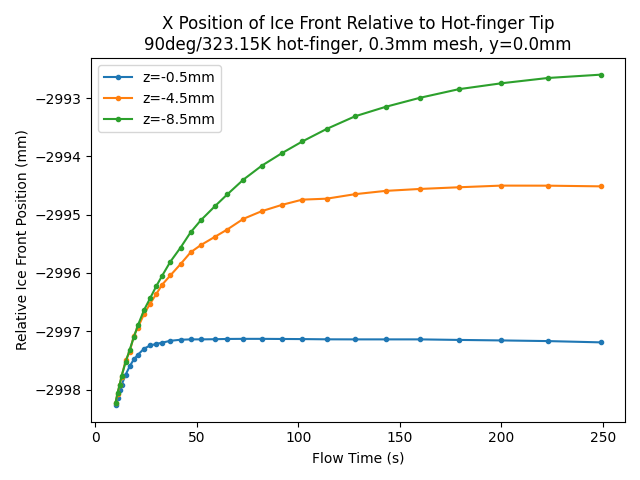
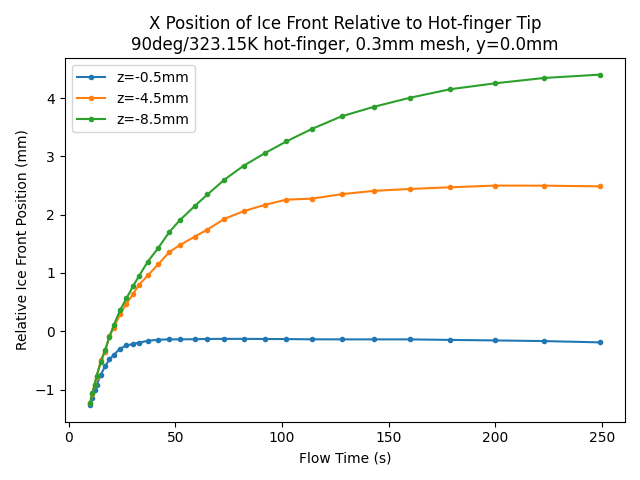
0.2 mesh post & temp gradient update

diff --git a/get_point_data.py b/get_point_data.py
@@ -153,7 +153,7 @@ class GetPointData:
 
         return x_gradient, y_gradient, z_gradient
 
-    def get_neighbor_cent(self, x_pos, active_node):
+    def get_neighbor_cent(self, x_pos, active_node, closest_neighbor=False):
         """Find cell containing the point and all neighboring cells"""
         distance = []
         dst_p = np.array([x_pos, self.y_pos, self.z_pos])
@@ -165,19 +165,32 @@ class GetPointData:
         min_distance = min(distance)
         cell_cent = active_node[distance.index(min_distance)]
 
-        distance = []
-        dst_p = np.array([self.grid_data[cell_cent][0]['x_pos'],
-                          self.grid_data[cell_cent][0]['y_pos'],
-                          self.grid_data[cell_cent][0]['z_pos']])
-        for index in active_node:
-            tmp_point = np.array([self.grid_data[index][0]['x_pos'],
-                                  self.grid_data[index][0]['y_pos'],
-                                  self.grid_data[index][0]['z_pos']])
-            distance.append(cell_average.point_dis(dst_p, tmp_point))
-        top_index = sorted(range(len(distance)), key=lambda i: distance[i], reverse=False)
-        surr_cent = []
-        for ind in top_index[1:1+4]:
-            surr_cent.append(active_node[ind])
+        if closest_neighbor:
+            distance = []
+            dst_p = np.array([self.grid_data[cell_cent][0]['x_pos'],
+                              self.grid_data[cell_cent][0]['y_pos'],
+                              self.grid_data[cell_cent][0]['z_pos']])
+            for index in active_node:
+                tmp_point = np.array([self.grid_data[index][0]['x_pos'],
+                                      self.grid_data[index][0]['y_pos'],
+                                      self.grid_data[index][0]['z_pos']])
+                distance.append(cell_average.point_dis(dst_p, tmp_point))
+            top_index = sorted(range(len(distance)), key=lambda i: distance[i], reverse=False)
+            surr_cent = []
+            for ind in top_index[1:1+4]:
+                surr_cent.append(active_node[ind])
+        else:
+            surr_cent = []
+            dst_p = np.array([self.grid_data[cell_cent][0]['x_pos'],
+                              self.grid_data[cell_cent][0]['y_pos'],
+                              self.grid_data[cell_cent][0]['z_pos']])
+            for index in active_node:
+                tmp_point = np.array([self.grid_data[index][0]['x_pos'],
+                                      self.grid_data[index][0]['y_pos'],
+                                      self.grid_data[index][0]['z_pos']])
+                if cell_average.point_dis(dst_p, tmp_point) <= self.elem_size * 2:
+                    surr_cent.append(index)
+            # print(len(surr_cent))
 
         # cent_p = ((self.grid_data[cell_cent][0]['x_pos'] * 1000,
         #        self.grid_data[cell_cent][0]['y_pos'] * 1000,
@@ -196,7 +209,7 @@ class GetPointData:
 
         return cell_cent, surr_cent
 
-    def least_square_gradient(self, cell_cent, surr_cent):
+    def least_square_gradient(self, cell_cent, surr_cent,data_type='temperature'):
         """Compute gradient at cell centroid using least squares method"""
         geo_matrix = []
         diff_matrix = []
@@ -204,7 +217,7 @@ class GetPointData:
         cent_x = self.grid_data[cell_cent][0]['x_pos']
         cent_y = self.grid_data[cell_cent][0]['y_pos']
         cent_z = self.grid_data[cell_cent][0]['z_pos']
-        cent_temp = self.grid_data[cell_cent][0]['temperature']
+        cent_val = self.grid_data[cell_cent][0][data_type]
 
         for neighbor in surr_cent:
             geo_matrix.append([
@@ -212,7 +225,7 @@ class GetPointData:
                 self.grid_data[neighbor][0]['y_pos'] - cent_y,
                 self.grid_data[neighbor][0]['z_pos'] - cent_z
             ])
-            diff_matrix.append(self.grid_data[neighbor][0]['temperature'] - cent_temp)
+            diff_matrix.append(self.grid_data[neighbor][0][data_type] - cent_val)
 
         cent_grad = np.linalg.lstsq(geo_matrix, diff_matrix, rcond=None)[0]
         return cent_grad[0], cent_grad[1], cent_grad[2]

diff --git a/test_ice_front_search.py b/test_ice_front_search.py
@@ -47,40 +47,40 @@ from matplotlib_scalebar.scalebar import ScaleBar
 def y_plane_search():
     print('\n-----Y Plane search test-----')
     ifs.ELEM_SIZE = 0.3e-3
-    ifs.FRAME_TIME = 250
-    ifs.FILE_NAME = ['0.3mesh/center-250.0']
     n = 30
-    y_list, z_list = ifs.yz_list_generator(n, n)
-    temp_y0 = ifs.grid_search([0], z_list, data_type='temp')
-    # lf_y0 = ifs.grid_search([0], z_list, data_type='lf')
+    frames = [50, 100, 150, 200, 250]
+    x_if_pos, z_if_pos = [], []
 
-    temp_x, temp_z = [], []
-    # lf_x, lf_z = [], []
-    for key in temp_y0:
-        temp_x.append(temp_y0[key]['position'][0] * 1000)
-        temp_z.append(temp_y0[key]['position'][2] * 1000)
-        # lf_x.append(lf_y0[key]['position'][0] * 1000)
-        # lf_z.append(lf_y0[key]['position'][2] * 1000)
-        # print(temp_y0[key]['position'])
+    for frame_time in frames:
+        ifs.ELEM_SIZE = 0.3e-3
+        ifs.FRAME_TIME = frame_time
+        ifs.FILE_NAME = [f'0.3mesh/center-{frame_time}.0']
+        y_list, z_list = ifs.yz_list_generator(n, n)
+        temp_y0 = ifs.grid_search([0], z_list, data_type='temp')
 
-    plt.figure(figsize=(5, 7.5))
+        temp_x, temp_z = [], []
+        for key in temp_y0:
+            temp_x.append(temp_y0[key]['position'][0] * 1000)
+            temp_z.append(temp_y0[key]['position'][2] * 1000)
+        x_if_pos.append(temp_x)
+        z_if_pos.append(temp_z)
+
+    # Plot
+    plt.figure(figsize=(7.5, 7.5))
 
     plt.xlim(10, 3)
     plt.xlabel('X Position (mm)')
     plt.ylabel('Z Position (mm)')
-    plt.plot(temp_x, temp_z)
-    # color1 = 'tab:blue'
-    # color2 = 'tab:red'
-    # plt.plot(temp_x, temp_z, color=color2, label='Temperature')
-    # plt.plot(lf_x, lf_z, color=color1, label='Liquid Fraction')
-    # plt.legend(loc="upper left")
+    for i, frame_time in enumerate(frames):
+        plt.plot(x_if_pos[i], z_if_pos[i], label=f'time={frame_time}s')
+    plt.legend(loc="upper left")
 
     plt.axis('equal')
     plt.title('Ice Front Position on XZ Mid-plane'
-              '\n90deg/323.15K hot-finger, y = 0 mm, t = 250s')
+              '\n90deg/323.15K hot-finger, y = 0 mm')
     plt.tight_layout()
 
-    plt.savefig('images/y=0 ice_front temp 30_points.png', bbox_inches='tight')
+    plt.savefig('images/y=0 ice_front multi.png', bbox_inches='tight')
     plt.close()
 
     print('-----Y Plane search test END-----')
@@ -124,11 +124,11 @@ def z_plane_search():
 
 def y_plane_gradient():
     print('\n-----Y Plane gradient test-----')
-    ifs.ELEM_SIZE = 0.3e-3
+    ifs.ELEM_SIZE = 0.2e-3
     ifs.FRAME_TIME = 250
-    ifs.FILE_NAME = ['0.3mesh/center-250.0']
+    ifs.FILE_NAME = ['0.2mesh/center-250.0']
 
-    n = 30
+    n = 40
     y_list, z_list = ifs.yz_list_generator(n, n)
     temp_y0 = ifs.grid_search([0], z_list, data_type='temp')
 
@@ -176,11 +176,11 @@ def y_plane_gradient():
               '\n90deg/323.15K hot-finger, y = 0 mm, t = 250s')
     plt.tight_layout()
 
-    plt.savefig('images/y0_if_grad.png')
+    plt.savefig('images/y0_if_grad_2ElemSize.png')
     plt.close()
 
     print('-----Y Plane gradient test END-----')
 
 
-y_plane_search()
-# y_plane_gradient()
+# y_plane_search()
+y_plane_gradient()

diff --git a/case_quasi_steady_state.py b/case_quasi_steady_state.py
@@ -24,7 +24,7 @@ def plot(end_time, y):
         x_frame = []
         for z in z_list:
             # temp_y0 = ifs.yz_search((y, z), info=False)
-            x_frame.append(ifs.yz_search((y, z), info=False)[0] - frame_list[i] * finger_vel - 3)
+            x_frame.append(ifs.yz_search((y, z), info=False)[0] - frame_list[i] * finger_vel - 3e-3)
         x.append(x_frame)
 
     vel_frame_list, vel_x_list = [], []

diff --git a/ice_front_search.py b/ice_front_search.py
@@ -25,7 +25,7 @@ def finger_location(yz):
         quit()
 
     if z <= -4.5e-3 - ELEM_SIZE or y <= -1.5e-3 - ELEM_SIZE:
-        return 25e-3
+        return 10e-3 + FRAME_TIME * FINGER_VEL
     else:
         return (-z) / np.tan(FINGER_ANGLE / 2) + 3e-3 + FRAME_TIME * FINGER_VEL - ELEM_SIZE
 
